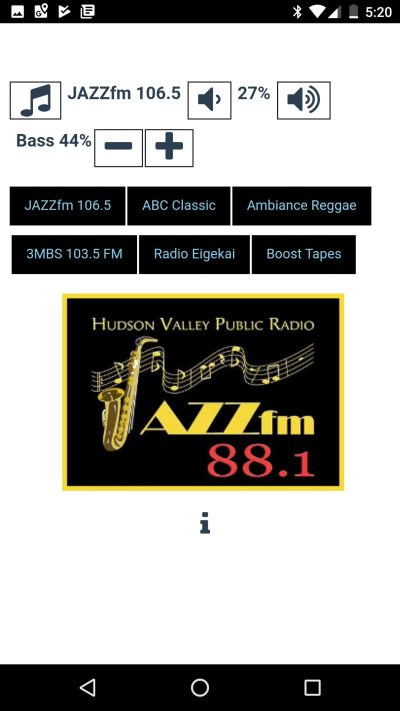
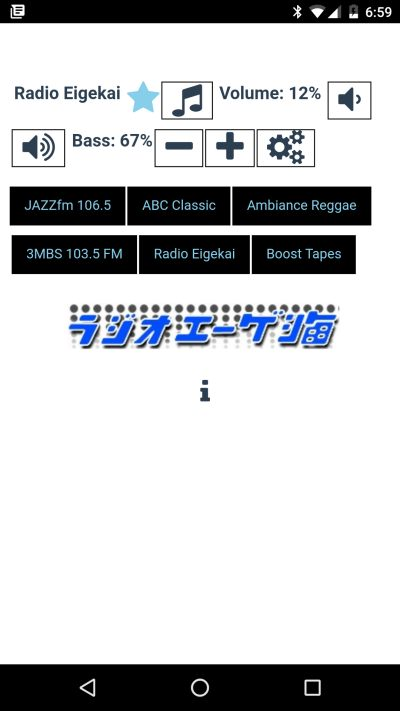
Add/Remove favs

diff --git a/src/components/Hello.vue b/src/components/Hello.vue
@@ -3,9 +3,9 @@
     <div class="row"> 
         <ul class="nav nav-pills top_butts">          
           
-          <li role="presentation">&nbsp;{{now_playing_info}}&nbsp;</i></li>   
-          <li v-if="now_playing_info!=''" role="presentation" class="liStarButton"><i v-on:click="add_item()" class="fa fa-star fa-2x" aria-hidden="true"></i></li> 
-          <li role="presentation" class="liButton"><i v-on:click="now_playing" class="fa fa-music fa-2x" aria-hidden="true"></i></li>
+          <li role="presentation">&nbsp;{{now_playing_status}}&nbsp;</i></li>   
+          <li v-on:click="add_content(now_playing)" v-if="now_playing.name!=''" role="presentation" class="liStarButton"><i  class="fa fa-star fa-2x" aria-hidden="true"></i></li> 
+          <li role="presentation" class="liButton"><i v-on:click="get_now_playing" class="fa fa-music fa-2x" aria-hidden="true"></i></li>
           <li role="presentation">&nbsp;{{get_volume()}}&nbsp;</i></li>             
           <li role="presentation" class="liButton"><i v-on:click="volume_up_down(-1)" class="fa fa-volume-down fa-2x" aria-hidden="true"></i></li>          
           
@@ -18,12 +18,13 @@
         <ul class="nav nav-pills">          
            <li role="presentation"class="liItem"  v-for="c in contentItmes" ><a v-on:click="play(c)">{{c.name}}</a></li>
         </ul>           
-        <br />                
-        <img v-bind:src="playing.image">
-        <img v-if="about_show" class="boseimg" src="../assets/BoseSpeaker.jpg">
-        <br /> 
-        <br />  
-        <i v-on:click="toggleAbout" class="fa fa-info fa-2x" aria-hidden="true"></i>  
+        <br />   
+        <div v-if="selected_play.item!=''">
+          <img v-bind:src="selected_play.image">
+          <br />  
+          <br />        
+          <button v-on:click="remove_content(selected_play)" type="button" class="btn btn-danger"> <i class="fa fa-times" aria-hidden="true"></i>&nbsp;Remove  {{selected_play.name}} List</button>
+        </div>    
     </div>
     
   </div>
@@ -40,9 +41,17 @@ export default {
     return {
       BoseSpeakerIP: "10.0.0.49",
       about_show: false,
-      playing: {
-        image: ""
+      selected_play: {
+        item: "",
+        name: "",
+        image: "",                
       },
+      now_playing: {
+        item: "",
+        name: "",
+        image: "",                
+      },
+      ContentItem: '',
       contentItmesStore: "",
       contentItmes: [
         {
@@ -80,9 +89,8 @@ export default {
       volumeObject: '',
       volume: -10,
       bassObject: '',
-      bass: 10,
-      ContentItem: '',
-      now_playing_info: '',
+      bass: 10,      
+      now_playing_status: '',
     }
   },
   created: function () {
@@ -100,6 +108,49 @@ export default {
       }
   },
   methods: {
+    check_inlist(ContentItem){
+      for(var i in this.contentItmes){
+            if (this.contentItmes[i].name != ContentItem.name)
+              continue;
+            if (this.contentItmes[i].image != ContentItem.image)
+              continue; 
+            return true;            
+            break;
+        };
+        return false;
+    },
+    add_content(ContentItem) {
+      if (this.check_inlist(ContentItem)) {
+        alertify.warning(ContentItem.name+" is already in your list");
+        return;
+      };
+      var newConent = {item:"",name:"",image:""};
+      newConent.item = ContentItem.item;
+      newConent.name = ContentItem.name;
+      newConent.image = ContentItem.image;
+      this.contentItmes.push(newConent);
+      localStorage.setItem("contentItmesStore",JSON.stringify(this.contentItmes));
+
+    },  
+    remove_content(ContentItem) {
+        if (this.contentItmes.length == 1) {
+            alertify.warning("You must keep at least one item in the list");
+            return;
+        };
+        for(var i in this.contentItmes){
+            if (this.contentItmes[i].name != ContentItem.name)
+              continue;
+            if (this.contentItmes[i].image != ContentItem.image)
+              continue; 
+            this.contentItmes.splice(i, 1);
+            localStorage.setItem("contentItmesStore",JSON.stringify(this.contentItmes));
+            break;
+        };
+        for(var i in this.contentItmes){
+            this.play(this.contentItmes[i]);
+            break;
+        }
+    },
     add_item() {
         alertify.warning("Add new item. Not implemented yet");
     },
@@ -188,8 +239,8 @@ export default {
         });
 
     },
-    now_playing() {
-            this.now_playing_info = "Changing Station";
+    get_now_playing() {      
+            this.now_playing_status = "Changing Station";
              // var _url = "http://10.0.0.49:8090/trackInfo";
             var _url =  this.get_ip()+":8090/now_playing"; 
               axios.get(_url)
@@ -198,26 +249,32 @@ export default {
                   console.log(this.boseObject);
                   var startpos = this.boseObject.indexOf("<ContentItem");
                   var endpos = this.boseObject.indexOf("</ContentItem>") + 14;
+                  var _content = "";
                   console.log(startpos);
-                  this.ContentItem = this.boseObject.substring(startpos, endpos); 
-                  this.ContentItem = this.ContentItem.replace(/\"/g,'\\"');
-                   console.log(this.ContentItem);
+                  _content = this.boseObject.substring(startpos, endpos); 
+                  //_content = _content.replace(/\"/g,'\\"');
+                  this.now_playing.item = _content;
+                  console.log(this.now_playing.item);
                   var parser = new DOMParser();
-                  var xmlDoc = parser.parseFromString(this.boseObject,"text/xml");
-                  this.now_playing_info =  xmlDoc.getElementsByTagName("itemName") [0].childNodes[0].nodeValue;                  
+                  var xmlDoc = parser.parseFromString(this.boseObject,"text/xml");                  
+                  this.now_playing.name =  xmlDoc.getElementsByTagName("itemName") [0].childNodes[0].nodeValue; 
+                  this.now_playing.image =  xmlDoc.getElementsByTagName("containerArt") [0].childNodes[0].nodeValue; 
+                  this.now_playing_status = this.now_playing.name;                                 
                 });
                 
       },
       play(ContentItem) {
         this.now_playing_info = "Changing Station";
-        this.playing.image = ContentItem.image;
+        this.selected_play.image = ContentItem.image;
+        this.selected_play.item = ContentItem.name;
+        this.selected_play.name = ContentItem.name;
         var instance = this;
         var _url =  this.get_ip()+":8090/select"; 
                 var _body =  ContentItem.item;                  
                  axios.post(_url, _body)
                  .then(response => {
                    instance.boseObject =  response.data;  
-                   setTimeout(function(){ instance.now_playing()}, 5000);
+                   setTimeout(function(){ instance.get_now_playing()}, 5000);
                   });
 
       },      
